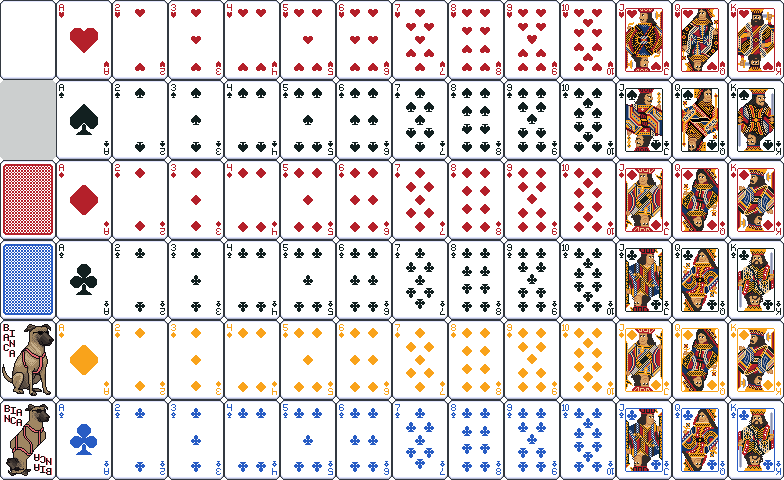
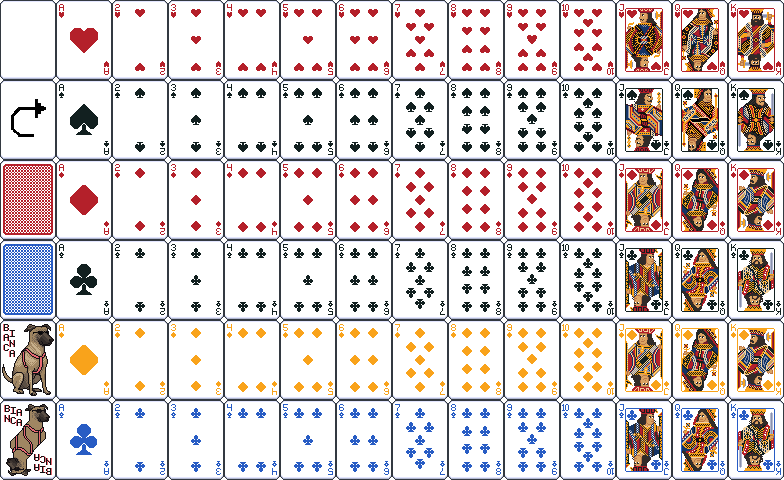
Implemented foundation piles, stockpile drawing, wastepile, undo of drawing, etc. in Klondike. Modified getCardAsset. Modified Utils.addAll. Modified kerenel_Cards.png to add undo card

Changed region(s): [[0.0, 0.1562, 0.0918, 0.3438]]

diff --git a/src/solitaire/Klondike.java b/src/solitaire/Klondike.java
@@ -4,35 +4,29 @@ import javax.swing.*;
 import java.awt.*;
 import java.io.Serial;
 import java.util.ArrayList;
+import java.util.Collections;
+
 public class Klondike extends PileSolitaire{
 	@Serial
     private static final long serialVersionUID = 1L;
-    ArrayList<Pile> foundationPiles;
-    JButton drawCards;
+    ArrayList<Pile> utilPiles;
+    Pile wastePile; //pile that holds waste cards
+    JButton getCards;
+    JPanel leftPane, rightPane;
 
-	/*public PileSolitaire start(Menu menu) {
-		SwingUtilities.invokeLater(() -> {
-			JFrame frame = new JFrame("Klondike");
-			frame.setDefaultCloseOperation(JFrame.EXIT_ON_CLOSE);
-			frame.setSize(800,600);
-			frame.add(new Klondike());
-			frame.setVisible(true);
-		});
-        return this;
-	}*/
 	public Klondike(){
 		super(7,1);
-        setupFoundation();
+        setupUtils();
 	}
     public Klondike(String saveFile)
-    {//TODO write load data function after everything else
-        super(7,1);
+    {
+        super(7,saveFile);
+
+
     }
 
-    public void setupFoundation()
+    public void setupUtils()
     {
-        foundationPiles = new ArrayList<>();
-
         utilPane = new JPanel(new GridLayout(1, COLS))
         {
             @Override
@@ -43,6 +37,50 @@ public class Klondike extends PileSolitaire{
         utilPane.setOpaque(false);
         mainPane.add(utilPane,BorderLayout.NORTH);
 
+        getCards = new JButton(new ImageIcon(Utils.cardBack)){
+            @Override
+            public void paint(Graphics g) {
+                super.paint(g);
+                if(!stock.isEmpty())
+                    g.drawImage(Utils.cardBack, 0, 0, getWidth(), getHeight(), null);
+                else g.drawImage(Utils.emptyStock, 0, 0, getWidth(), getHeight(), null);
+            }
+        };
+        getCards.setOpaque(false);
+        getCards.setBorder(null);
+        getCards.setBorderPainted(false);
+        getCards.setContentAreaFilled(false);
+        getCards.setFocusPainted(false);
+        getCards.addActionListener(e -> drawCard());
+        utilPane.add(getCards);//the getCards lines set up the button that acts as the deck to draw cards from stock
+
+        utilPiles = new ArrayList<>();
+
+        utilPiles.add(new Pile(COLS));
+        wastePile = utilPiles.getFirst();
+        utilPane.add(utilPiles.getFirst().pilePane);
+        addMouseListeners(utilPiles.getFirst());//the waste pile is added
+
+        JPanel emptyPanel = new JPanel();
+        emptyPanel.setOpaque(false);
+        utilPane.add(emptyPanel);//an empty panel is added as a divider between the foundations and stock/waste piles
+
+
+
+        for(int i = 1; i<5;++i)//the foundation piles are set up
+        {
+            utilPiles.add(new Pile(COLS));
+            utilPane.add(utilPiles.get(i).pilePane);
+            addMouseListeners(utilPiles.get(i));
+        }
+
+
+        leftPane = new JPanel();
+        leftPane.setOpaque(false);
+        rightPane = new JPanel();
+        rightPane.setOpaque(false);
+        parPane.add(leftPane,BorderLayout.WEST);
+        parPane.add(rightPane,BorderLayout.EAST);
     }
 
     @Override
@@ -61,7 +99,50 @@ public class Klondike extends PileSolitaire{
 
     @Override
     protected void undoDrawMove() {
+        if(wastePile.isEmpty()) {
+            Collections.reverse(stock);
+            wastePile.addAll(stock);
+            stock.clear();
+        }
+        else {
+            Card c = wastePile.getLast();
+            stock.push(c);
+            wastePile.remove(c);
+        }
+    }
 
+    private void drawCard()
+    {
+        pastMoves.add(new PileMove(true));
+        wastePile.pilePane.unhighlightAllCards();
+
+        if(stock.isEmpty())
+        {
+            Collections.reverse(wastePile);
+            stock.addAll(wastePile);
+            wastePile.clear();
+
+
+
+            getCards.repaint();
+            utilPiles.getFirst().pilePane.revalidate();
+            utilPiles.getFirst().pilePane.repaint();
+            return;
+        }
+
+        utilPiles.get(0).add(stock.pop(), false);
+
+        /*for (MouseListener m : piles.get(0).cardsMap.get(piles.get(0).getLast()).getMouseListeners())
+            piles.get(0).cardsMap.get(piles.get(0).getLast()).removeMouseListener(m);
+        for (MouseMotionListener m : piles.get(0).cardsMap.get(piles.get(0).getLast()).getMouseMotionListeners())
+            piles.get(0).cardsMap.get(piles.get(0).getLast()).removeMouseMotionListener(m);*/
+
+        addMouseListeners(utilPiles.get(0).getLast());
+
+        utilPiles.getFirst().pilePane.revalidate();
+        utilPiles.getFirst().pilePane.repaint();
+
+        if(stock.isEmpty()) getCards.repaint();
     }
 
     @Override
@@ -79,7 +160,7 @@ public class Klondike extends PileSolitaire{
         for (Pile p:piles)
             if(p.pilePane.getBounds().contains(SwingUtilities.convertPoint(this, point, pilePanes)))
                 return p;
-        for (Pile p:foundationPiles)
+        for (Pile p: utilPiles)
             if(p.pilePane.getBounds().contains(SwingUtilities.convertPoint(this, point, utilPane)))
                 return p;
         return null;
@@ -91,19 +172,22 @@ public class Klondike extends PileSolitaire{
             return false;
         if(pilesContains(piles,to))     //if we're moving to the table
         {
-            if (to.isEmpty() && from.getFirst().getRank() == 'K')
+            if (to.isEmpty() && held.getFirst().getRank() == 'K') //only a King can take an empty slot
                 return true;
             return !to.isEmpty() && held.getFirst().compareRank(to.getLast()) == -1 && !to.getLast().isSameColor(held.getFirst());
+                    //a card can stack if it is the alternative color and descending in rank
         }
-        if(pilesContains(foundationPiles,to)) //if we're moving to the foundation
+        if(pilesContains(utilPiles,to)) //if we're moving to the foundation
         {
             if(held.size() > 1) //can only put 1 card down at a time
                 return false;
+            if(pilesIndexOf(utilPiles, to) < 1)// trying to move to the stockpile or wastepile is illegal
+                return false;
 
-            if(to.isEmpty())    //can only start a pile with 1
+            if(to.isEmpty())    //can only start a foundation pile with 1
                 return held.getFirst().getRank() == '1';
             else                //it has to be one higher rank and the same suit
-                return held.getFirst().compareRank(to.getLast()) == -1 && held.getFirst().isSameSuit(to.getLast());
+                return held.getFirst().compareRank(to.getLast()) == 1 && held.getFirst().isSameSuit(to.getLast());
         }
 
 
@@ -121,11 +205,30 @@ public class Klondike extends PileSolitaire{
     {
         for(int i = 0; i<4;++i)
         {
-            if (foundationPiles.get(i).size() != 13)
+            if (utilPiles.get(i+1).size() != 13)
                 return;
         }
         endGame();
     }
 
+    public void doLayout(){
+        super.doLayout();
+        if(getWidth()>getHeight()){
+            leftPane.setVisible(true);
+            rightPane.setVisible(true);
+            leftPane.setPreferredSize(new Dimension((getWidth()-getHeight())/2, getHeight()));
+            rightPane.setPreferredSize(new Dimension((getWidth()-getHeight())/2, getHeight()));
+        }
+        else {
+            leftPane.setVisible(false);
+            rightPane.setVisible(false);
+        }
+    }
+    @Override
+    void clearTable() {
+        super.clearTable();
+        for(Pile pile : utilPiles)
+            pile.clear();
+    }
 
 }

diff --git a/src/solitaire/Utils.java b/src/solitaire/Utils.java
@@ -86,16 +86,17 @@ public class Utils {
     }
     static final int CARD_WIDTH = cardSheet.getWidth() / 14;
     static final int CARD_HEIGHT = cardSheet.getHeight() / 6;
-    public final static BufferedImage cardBack = getCardAsset(0, CARD_HEIGHT *2, CARD_WIDTH, CARD_HEIGHT);
+    public final static BufferedImage cardBack = getCardAsset(0, 2);
+    public final static BufferedImage emptyStock = getCardAsset(0,1);
     public final static BufferedImage greyedCardBack = tint(cardBack, Color.lightGray);
     static final List<Character> RANK_ORDER = Arrays.asList('1', '2', '3', '4', '5', '6', '7', '8', '9', '0', 'J', 'Q', 'K');
 	static final List<Character> SUIT_ORDER = Arrays.asList('h', 's', 'd', 'c');
 
     public static BufferedImage getCardAsset(Card c){
-        return getCardAsset(CARD_WIDTH * (RANK_ORDER.indexOf(c.rank)+1), CARD_HEIGHT * SUIT_ORDER.indexOf(c.suit), CARD_WIDTH, CARD_HEIGHT);
+        return getCardAsset((RANK_ORDER.indexOf(c.rank)+1),  SUIT_ORDER.indexOf(c.suit));
     }
-    public static BufferedImage getCardAsset(int x, int y, int w, int h){
-        return centerImage(cardSheet.getSubimage(x, y, w, h));
+    public static BufferedImage getCardAsset(int x, int y){
+        return centerImage(cardSheet.getSubimage(x*CARD_WIDTH, y*CARD_HEIGHT, CARD_WIDTH, CARD_HEIGHT));
     }
 	public static BufferedImage centerImage(BufferedImage src) {
 		int w = src.getWidth();

diff --git a/src/solitaire/Pile.java b/src/solitaire/Pile.java
@@ -18,7 +18,7 @@ public class Pile extends ArrayList<Card> {
     }
     public Pile(Deck deck, int cols) {
         pilePane = new PilePanel(this, cols);
-        addAll(deck);
+        addAll(deck, true);
         cardsMap = pilePane.cardsMap;
     }
     /**make subpile only consisting of the cards in the arrayList, transfers the listeners over from pile. Only call on cards that is sub array of pile. */
@@ -59,6 +59,13 @@ public class Pile extends ArrayList<Card> {
     public boolean addAll(Collection<? extends Card> pile) {
         for(Card c:pile) {
             if (!add(c)) return false;
+        }
+        return true;
+    }
+    /**Sets all cards in the pile face down. */
+    public boolean addAll(Collection<? extends Card> pile, Boolean faceDown) {
+        for(Card c:pile) {
+            if (!add(c, faceDown)) return false;
         }
         return true;
     }
